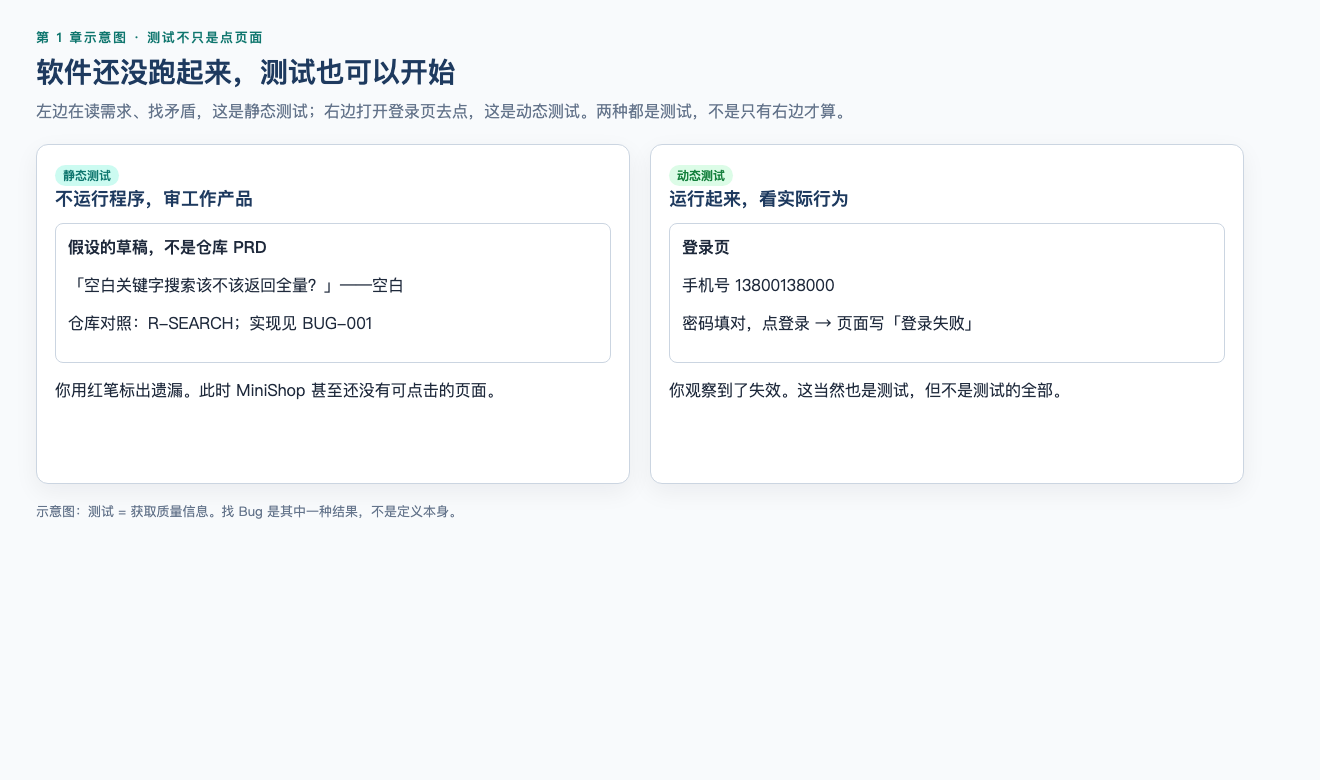
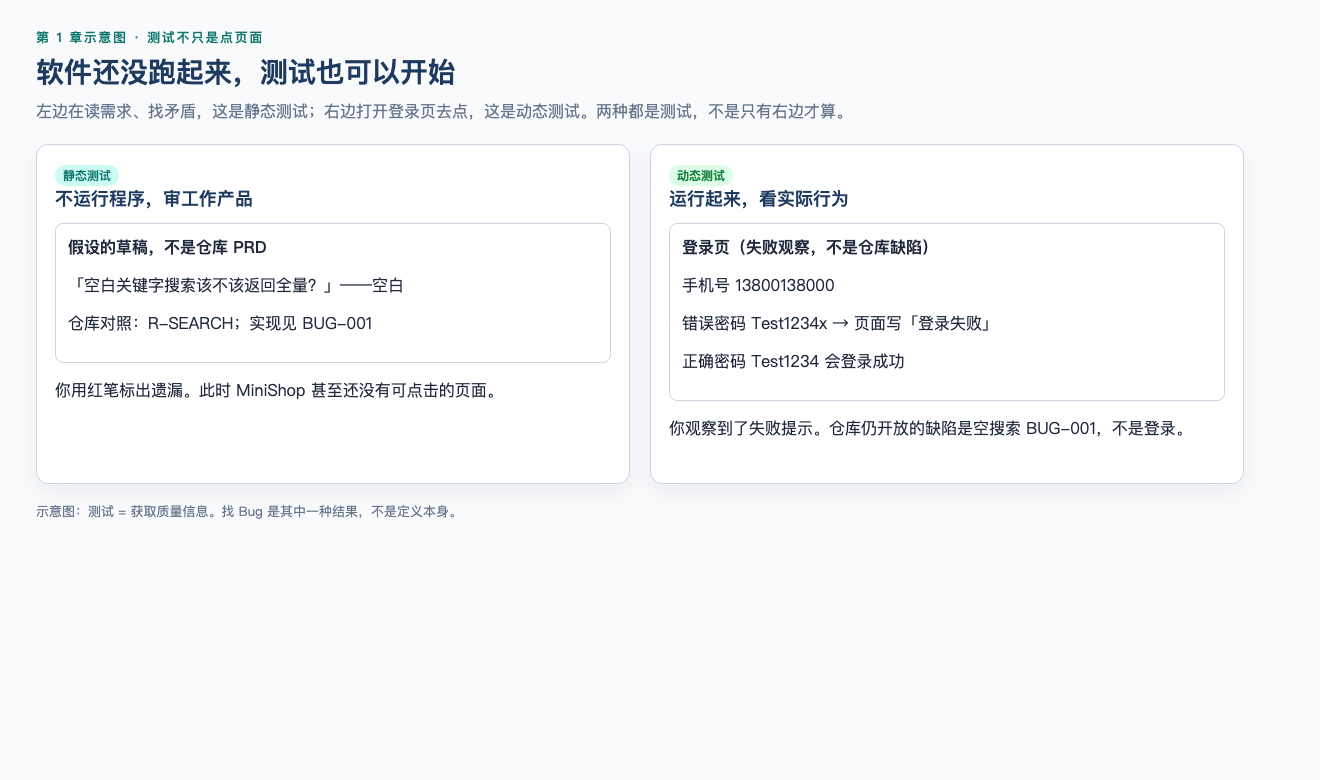
fix(ch01): stop using seed credentials as a login bug
Correct password Test1234 succeeds in MiniShop. Failure demo uses Test1234x.
Open defect stays BUG-001 empty search. Align principle 3 and ISO/CTFL names.

Changed region(s): [[0.497, 0.4, 0.9008, 0.5538], [0.5591, 0.3077, 0.7144, 0.3385]]

diff --git a/chapters/assets/diagrams/ch01-static-dynamic.html b/chapters/assets/diagrams/ch01-static-dynamic.html
@@ -29,11 +29,12 @@
       <span class="tag tag-ok">动态测试</span>
       <h2>运行起来，看实际行为</h2>
       <div class="paper">
-        <b>登录页</b>
+        <b>登录页（失败观察，不是仓库缺陷）</b>
         <p>手机号 13800138000</p>
-        <p>密码填对，点登录 → 页面写「登录失败」</p>
+        <p>错误密码 Test1234x → 页面写「登录失败」</p>
+        <p>正确密码 Test1234 会登录成功</p>
       </div>
-      <p>你观察到了失效。这当然也是测试，但不是测试的全部。</p>
+      <p>你观察到了失败提示。仓库仍开放的缺陷是空搜索 BUG-001，不是登录。</p>
     </div>
   </div>
   <p class="caption">示意图：测试 = 获取质量信息。找 Bug 是其中一种结果，不是定义本身。</p>
